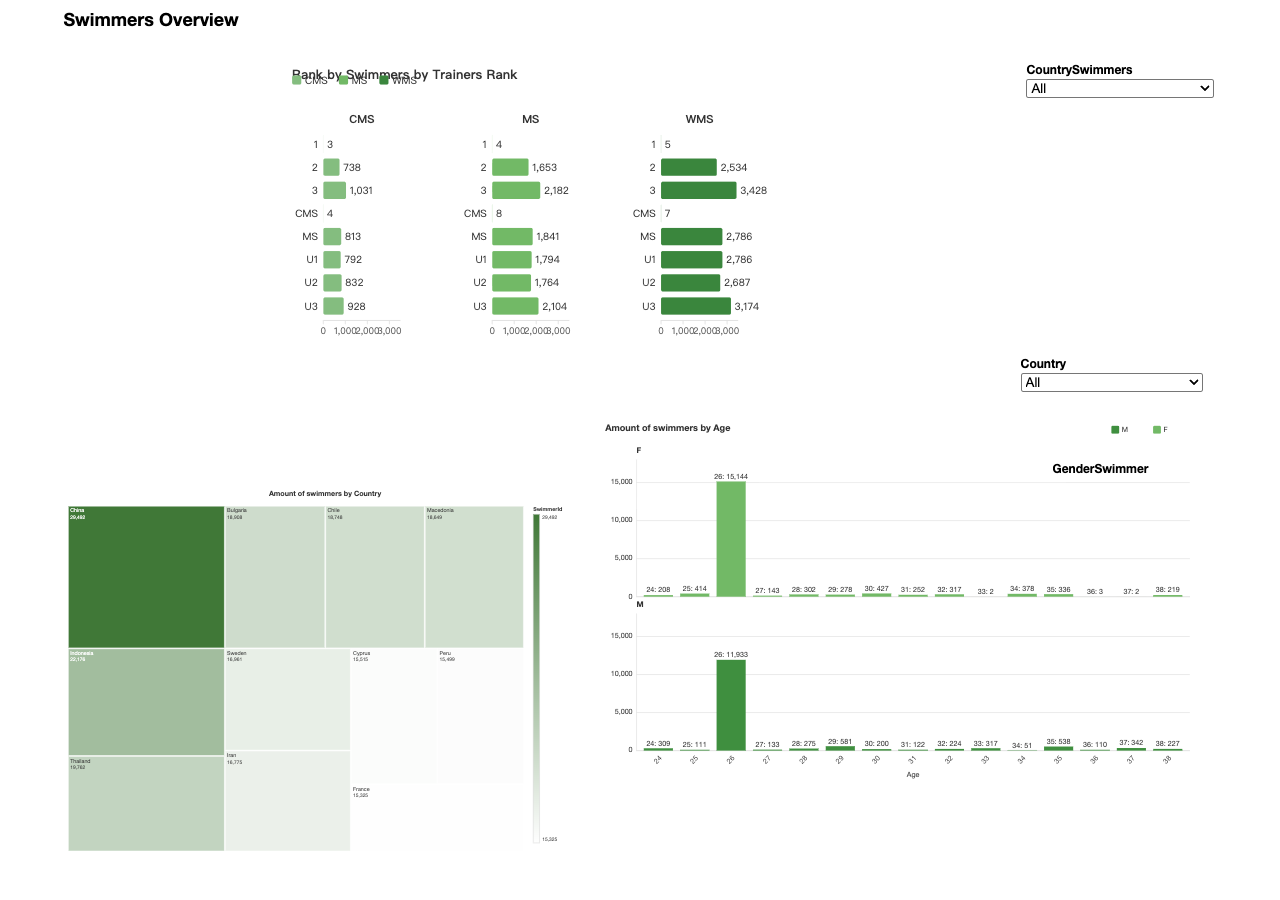
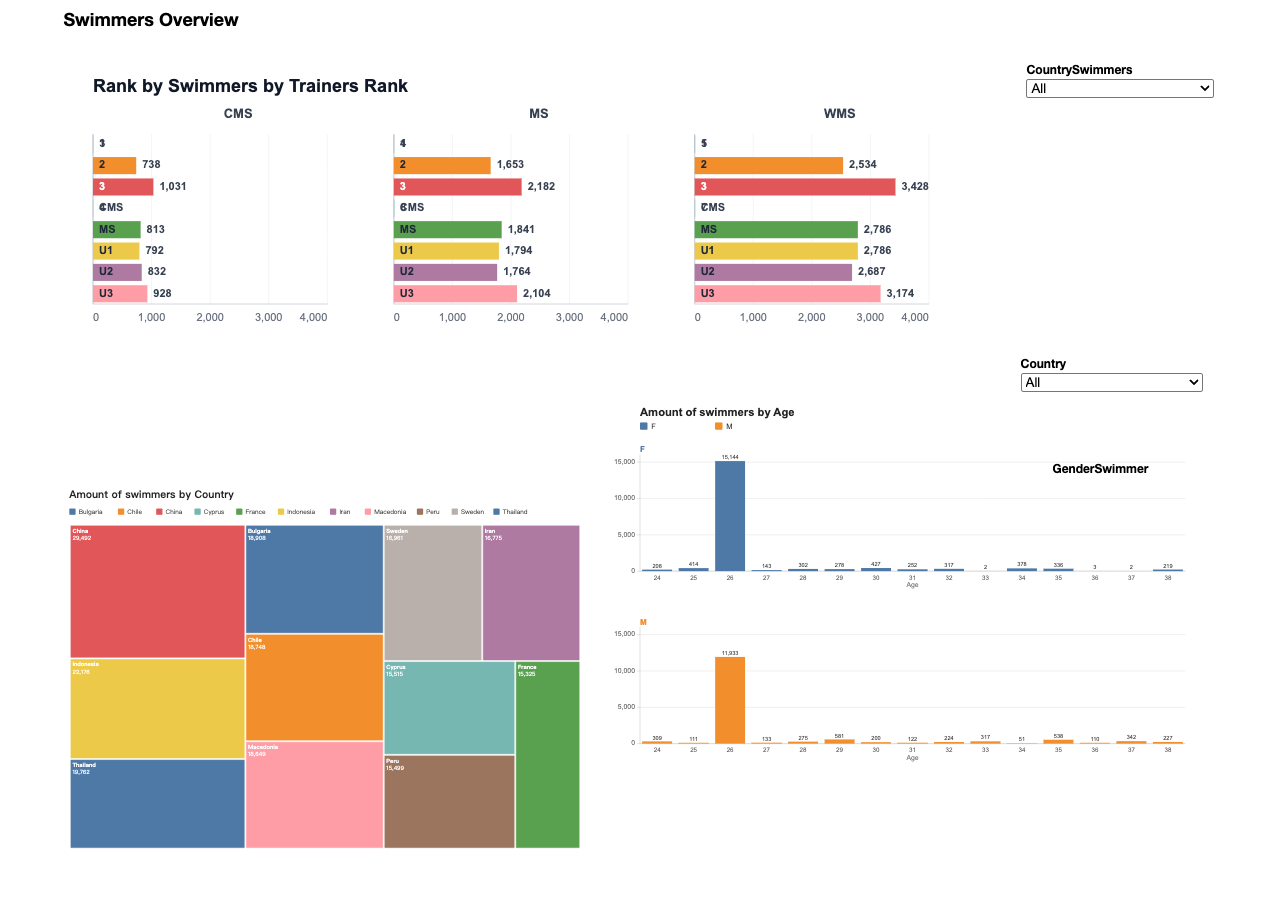
Constrain supervisor to supplementary guidance; multi-agent quality restored
- supervisor prompt: negative list (no color override, no absolute sizes,
  WIS wins on anything specified)
- injection: explicit WIS > guidance priority
- k3 multi-agent on 160: 3/3 first-attempt, status=done

diff --git a/agent_pipeline_v2/multiagent/supervisor.py b/agent_pipeline_v2/multiagent/supervisor.py
@@ -15,17 +15,19 @@ from .state import DashboardState, make_llm
 
 __all__ = ["plan_node"]
 
-_PLAN_PROMPT = """你是一个多视图 dashboard 的视觉总监。下面是这个 dashboard 的完整说明。
+_PLAN_PROMPT = """你是多视图 dashboard 的视觉一致性评审。下面是这个 dashboard 的完整说明（WIS）。
 
 {wis_summary}
 
-请给出一份简短的**全局一致性指导**（将注入每个视图组件的生成要求中），只写最影响整体观感的 3-5 条，例如：
-- 统一的配色基调（结合说明里出现的显式颜色/调色板）
-- 统一的数值标签样式（千分位、字号、旋转角度）
-- 统一的留白/轴线风格（细灰轴线、无多余边框）
-- 统一的分面/图例呈现方式
+你的任务：给出一份简短的**补充型**全局一致性建议（3-5 条），注入各视图组件的生成要求中。
 
-要求：直接输出条目列表，不要解释，不要泛泛而谈。"""
+硬性规则（必须遵守）：
+1. WIS 中已明确的内容（图类型、颜色/调色板、分面、方向、布局位置）一律以 WIS 为准，你只可引用，不可更改、覆盖或另立方案；
+2. 禁止指定任何颜色值或色系方案——WIS 有显式色/调色板就引用它，没有就写"用默认分类色板"；
+3. 禁止出现任何绝对像素尺寸（画布宽高、面板宽度等），布局一律由组件按父容器自适应；
+4. 只补充 WIS 没规定的细节，例如：数值标签格式（千分位）、字号与字重、轴线粗细与颜色（浅灰细线）、图例位置与排列、交互联动的透明度反馈、视图间留白节奏。
+
+输出：直接列条目，每条一句话，不要解释。"""
 
 
 def plan_node(state: DashboardState) -> Dict[str, Any]:

diff --git a/agent_pipeline_v2/multiagent/view_worker.py b/agent_pipeline_v2/multiagent/view_worker.py
@@ -32,7 +32,12 @@ def _generate(state: WorkerState) -> Dict[str, Any]:
         errors=errors,
     )
     if job.get("global_guidance"):
-        prompt += f"\n## 全局一致性要求（主管 agent 统一下发，所有视图共用）\n{job['global_guidance']}\n"
+        prompt += (
+            "\n## 全局一致性建议（补充参考，非强制）\n"
+            "以下建议用于统一各视图的观感细节。凡与 WIS 视觉规范冲突的，"
+            "一律以 WIS 为准；本建议不得推翻 WIS 已明确的颜色、图类型与布局。\n"
+            f"{job['global_guidance']}\n"
+        )
 
     raw = llm.invoke(prompt).content
     code = extract_code(raw if isinstance(raw, str) else str(raw))
